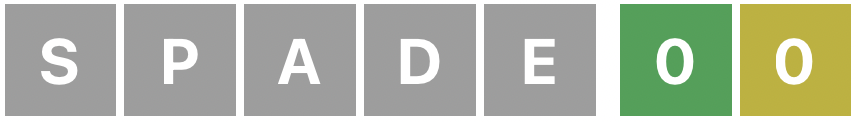
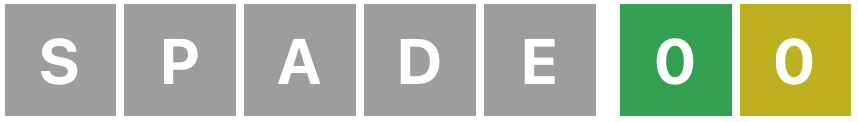
Add dark mode, high contrast mode

Changed region(s): [[0.697, 0.0246, 1.0, 0.959]]

diff --git a/src/styles/index.css b/src/styles/index.css
@@ -10,8 +10,33 @@
   --color-tile-invalid-word: #eedddd;
   --color-tile-invalid-word-border: gray;
   --color-keyboard-key: #cccccc;
+  --color-keyboard-text: black;
   --color-text-default: black;
-  --color-text-highlight: white;
+  --color-tile-text: white;
+  --color-overlay: #ffffff88;
+  --invert-icons: 0;
+}
+
+[darkMode="true"] {
+  --color-background: #0a0a0a;
+  --color-tile-light: #141414;
+  --color-tile-light-border: #2f2f2f;
+  --color-tile-emphasis-border: #555555;
+  --color-incorrect: #555a5c;
+  --color-unknown: #909090;
+  --color-tile-invalid-word: #441111;
+  --color-tile-invalid-word-border: #555555;
+  --color-keyboard-key: #b0b0b0;
+  --color-keyboard-text: black;
+  --color-text-default: #e3e3e3;
+  --color-tile-text: white;
+  --color-overlay: #00000088;
+  --invert-icons: 1;
+}
+
+[highContrast="true"] {
+  --color-correct: #1E88E5;
+  --color-contains: #FFC107;
 }
 
 body {
@@ -23,6 +48,7 @@ body {
   -moz-osx-font-smoothing: grayscale;
 
   color: var(--color-text-default);
+  background: var(--color-background);
 }
 
 h1, h2 {
@@ -78,6 +104,7 @@ header img {
   display: block;
   padding: 10px 5px;
   cursor: pointer;
+  filter: invert(var(--invert-icons));
 }
 
 header img:hover,
@@ -196,14 +223,7 @@ header button:active {
   border-color: var(--color-tile-light-border);
 }
 
-@keyframes bounce {
-  0% { transform: scale(1.1); }
-  100% {transform: scale(1); }
-}
-
 .tile-emphasis-border {
-  animation: bounce;
-  animation-duration: 100ms;
   border-color: var(--color-tile-emphasis-border);
 }
 
@@ -221,37 +241,36 @@ header button:active {
 
 .tile-invalid-word {
   animation-name: invalid-word-animation;
-  animation-duration: 500ms;
+  animation-duration: 450ms;
   background: var(--color-tile-invalid-word);
 }
 
-.submitted-guess {
-  animation: bounce;
-  animation-duration: 100ms;
+.guess .tile-submitted-letter {
+  cursor: pointer;
 }
 
 .guess .tile-green {
   background-color: var(--color-correct);
   border-color: var(--color-correct);
-  color: var(--color-text-highlight);
+  color: var(--color-tile-text);
 }
 
 .guess .tile-yellow {
   background-color: var(--color-contains);
   border-color: var(--color-contains);
-  color: var(--color-text-highlight);
+  color: var(--color-tile-text);
 }
 
 .guess .tile-gray {
   background-color: var(--color-unknown);
   border-color: var(--color-unknown);
-  color: var(--color-text-highlight);
+  color: var(--color-tile-text);
 }
 
 .guess .tile-dark-gray {
   background-color: var(--color-incorrect);
   border-color: var(--color-incorrect);
-  color: var(--color-text-highlight);
+  color: var(--color-tile-text);
 }
 
 /*
@@ -278,7 +297,7 @@ header button:active {
   padding: 0;
   flex: 1;
   border: none;
-  color: var(--color-text-default);
+  color: var(--color-keyboard-text);
   background-color: var(--color-keyboard-key);
   text-transform: uppercase;
   font-weight: 600;
@@ -328,6 +347,7 @@ header button:active {
   width: 36px;
   height: 36px;
   cursor: pointer;
+  filter: invert(var(--invert-icons));
 }
 
 .ReactModal__Overlay {
@@ -346,6 +366,12 @@ header button:active {
 /*
  ------------------------------------ TutorialModal ------------------------------------
  */
+
+.tutorial-modal-content h2 {
+  border-bottom: 1px solid var(--color-tile-light-border);
+  padding-bottom: 8px;
+  margin-bottom: 8px;
+}
 
 .tutorial-modal-content img {
   width: 80%;
@@ -399,6 +425,7 @@ header button:active {
   max-width: 48px;
   padding: 5px;
   cursor: pointer;
+  filter: invert(var(--invert-icons));
 }
 
 .end-modal-content img:hover,
@@ -428,4 +455,30 @@ header button:active {
   .button-bar {
     flex-direction: column;
   }
+}
+
+/*
+ ------------------------------------ SettingsModal ------------------------------------
+ */
+
+.settings-modal-content {
+  padding-top: 10%;
+}
+
+.settings-modal-content h2 {
+  padding-bottom: 16px;
+  border-bottom: 1px solid var(--color-tile-light-border);
+  margin-bottom: 26px;
+}
+
+.setting {
+  display: flex;
+  justify-content: space-between;
+  align-items: center;
+  width: 90%;
+  margin: 50px auto;
+}
+
+.setting h4, .setting p {
+  margin: 0 0 4px;
 }

diff --git a/src/App.tsx b/src/App.tsx
@@ -8,7 +8,8 @@ import GameState from "./GameState";
 import EndModal from "./components/EndModal";
 import {getStorageValue, setStorageValue} from "./storage";
 import {START_DATE} from "./Constants";
-import SettingsModal from "./components/SettingsModal";
+import SettingsModal, {Settings} from "./components/SettingsModal";
+import {useLocalStorage} from "./hooks/useLocalStorage";
 
 const date = new Date();
 const time = date.getTime() - START_DATE.getTime();
@@ -18,7 +19,9 @@ function App() {
     const game: Game = useGame(day);
     const [tutorial, setTutorial] = useState<boolean>(false);
     const [end, setEnd] = useState<boolean>(false);
-    const [settings, setSettings] = useState<boolean>(false);
+    const [settingsModal, setSettingsModal] = useState<boolean>(false);
+    const [settings, setSettings] = useLocalStorage<Settings>("settings",
+        {darkMode: false, highContrast: false});
 
     useEffect(() => {
         if (!tutorial && !getStorageValue<boolean>("visited", false)) {
@@ -85,17 +88,25 @@ function App() {
         }
     }, [game.gameState])
 
+    useEffect(() => {
+        document.documentElement.setAttribute("darkMode", "" + settings.darkMode);
+        document.documentElement.setAttribute("highContrast", "" + settings.highContrast);
+    }, [settings])
+
     return (
-        <div className="app-container" tabIndex={0}>
+        <div className="app-container" tabIndex={0} >
             <Header     setTutorial={setTutorial}
                         letterColors={game.letterColors}
                         gameState={game.gameState}
                         onClear={game.clearLetterColors}
-                        setSettings={setSettings} />
+                        setSettings={setSettingsModal} />
 
             <TutorialModal open={tutorial} setOpen={setTutorial} />
 
-            <SettingsModal open={settings} setOpen={setSettings} />
+            <SettingsModal  open={settingsModal}
+                            setOpen={setSettingsModal}
+                            settings={settings}
+                            setSettings={setSettings} />
 
             <EndModal   open={end}
                         setOpen={setEnd}

diff --git a/src/components/SettingsModal.tsx b/src/components/SettingsModal.tsx
@@ -1,15 +1,37 @@
 import React, {Component} from 'react';
 import GameModal from "./GameModal";
+import ReactSwitch from "react-switch";
+
+export interface Settings {
+    darkMode: boolean;
+    highContrast: boolean;
+}
 
 interface SettingsModalProps {
     open: boolean;                      // Whether the tutorial modal is visible
     setOpen: (open: boolean) => void;   // Sets the modal's visibility
+    settings: Settings;
+    setSettings: (settings: Settings) => void;
 }
 
 /**
  * A modal showing the results of the game once it has finished.
  */
 class SettingsModal extends Component<SettingsModalProps> {
+    setDarkMode = (on: boolean) => {
+        this.props.setSettings({
+            darkMode: on,
+            highContrast: this.props.settings.highContrast
+        });
+    }
+
+    setHighContrast = (on: boolean) => {
+        this.props.setSettings({
+            darkMode: this.props.settings.darkMode,
+            highContrast: on
+        });
+    }
+
     render() {
         return (
             <GameModal
@@ -17,7 +39,19 @@ class SettingsModal extends Component<SettingsModalProps> {
                 setOpen={this.props.setOpen}
             >
                 <div className={"settings-modal-content"}>
-                    
+                    <h2>Settings</h2>
+                    <div className={"setting"}>
+                        <h4>Dark Mode</h4>
+                        <ReactSwitch onChange={this.setDarkMode} checked={this.props.settings.darkMode} />
+                    </div>
+
+                    <div className={"setting"}>
+                        <div>
+                            <h4>High Contrast Mode</h4>
+                            <p>For improved color vision</p>
+                        </div>
+                        <ReactSwitch onChange={this.setHighContrast} checked={this.props.settings.highContrast} />
+                    </div>
                 </div>
             </GameModal>
         )

diff --git a/src/components/Guess.tsx b/src/components/Guess.tsx
@@ -41,7 +41,7 @@ class Guess extends Component<GuessProps> {
             let border = "tile-light-border";
             if (this.props.submitted) {
                 letter = this.props.guess[i];
-                border = DISPLAY_LETTERS[this.props.letterColors[i]];
+                border = DISPLAY_LETTERS[this.props.letterColors[i]] + " tile-submitted-letter";
             } else if (i < this.props.guess.length) {
                 letter = this.props.guess[i];
                 border = "tile-emphasis-border";
@@ -62,7 +62,7 @@ class Guess extends Component<GuessProps> {
         }
 
         return (
-            <div className={`guess${this.props.submitted ? " submitted-guess" : ""}`}>
+            <div className={`guess`}>
                 {letters}
                 <div className="tile-spacer" />
                 <div className={`tile ${this.props.submitted ? "tile-green" : "tile-light-border tile-light-gray"}`}>

diff --git a/src/components/GameModal.tsx b/src/components/GameModal.tsx
@@ -20,11 +20,18 @@ class GameModal extends Component<GameModalProps> {
                 isOpen={this.props.open}
                 contentLabel={"game modal"}
                 appElement={document.getElementById('root')}
+                onRequestClose={() => this.props.setOpen(false)}
                 closeTimeoutMS={200}
                 style={{
                     content: {
                         maxWidth: '500px',
-                        margin: '0 auto'
+                        margin: '0 auto',
+                        background: 'var(--color-background)',
+                        'border-radius': '10px'
+                    },
+
+                    overlay: {
+                        background: 'var(--color-overlay)'
                     }
                 }}
             >

diff --git a/src/hooks/useGame.ts b/src/hooks/useGame.ts
@@ -191,6 +191,10 @@ const useGame = (day: number): Game => {
                 setGameState(GameState.LOST);
                 revealFeedback(newSubmittedGuesses);
             }
+
+            if (invalidWord) {
+                setInvalidWord(false);
+            }
         });
     }
 
